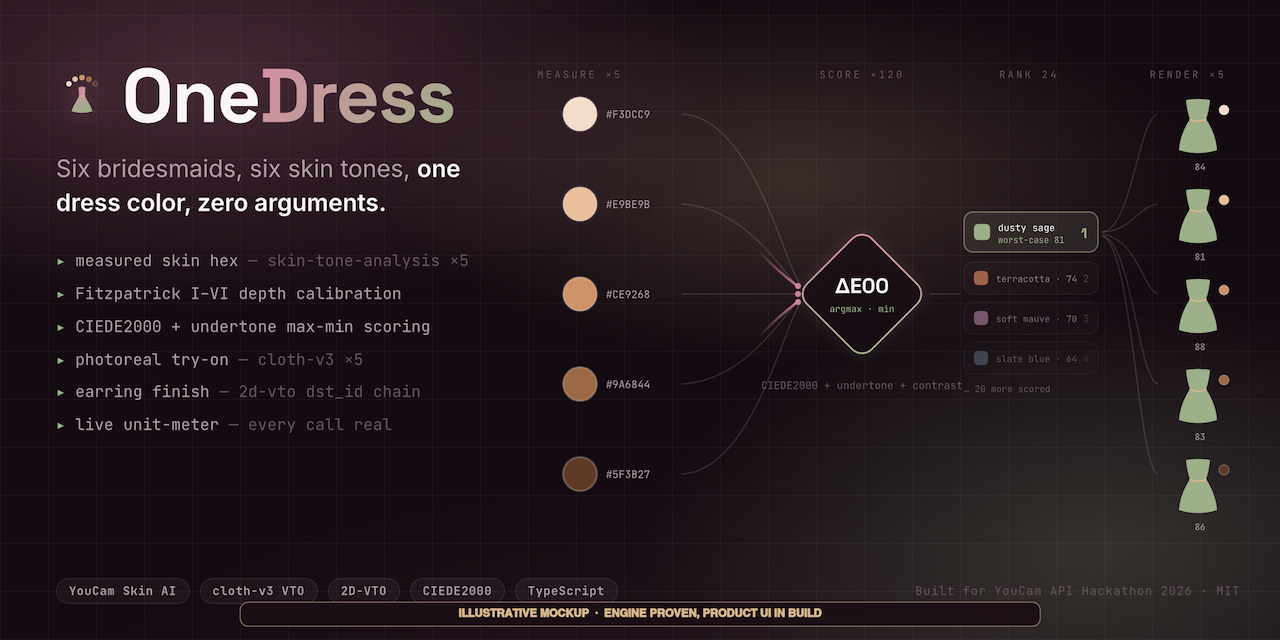
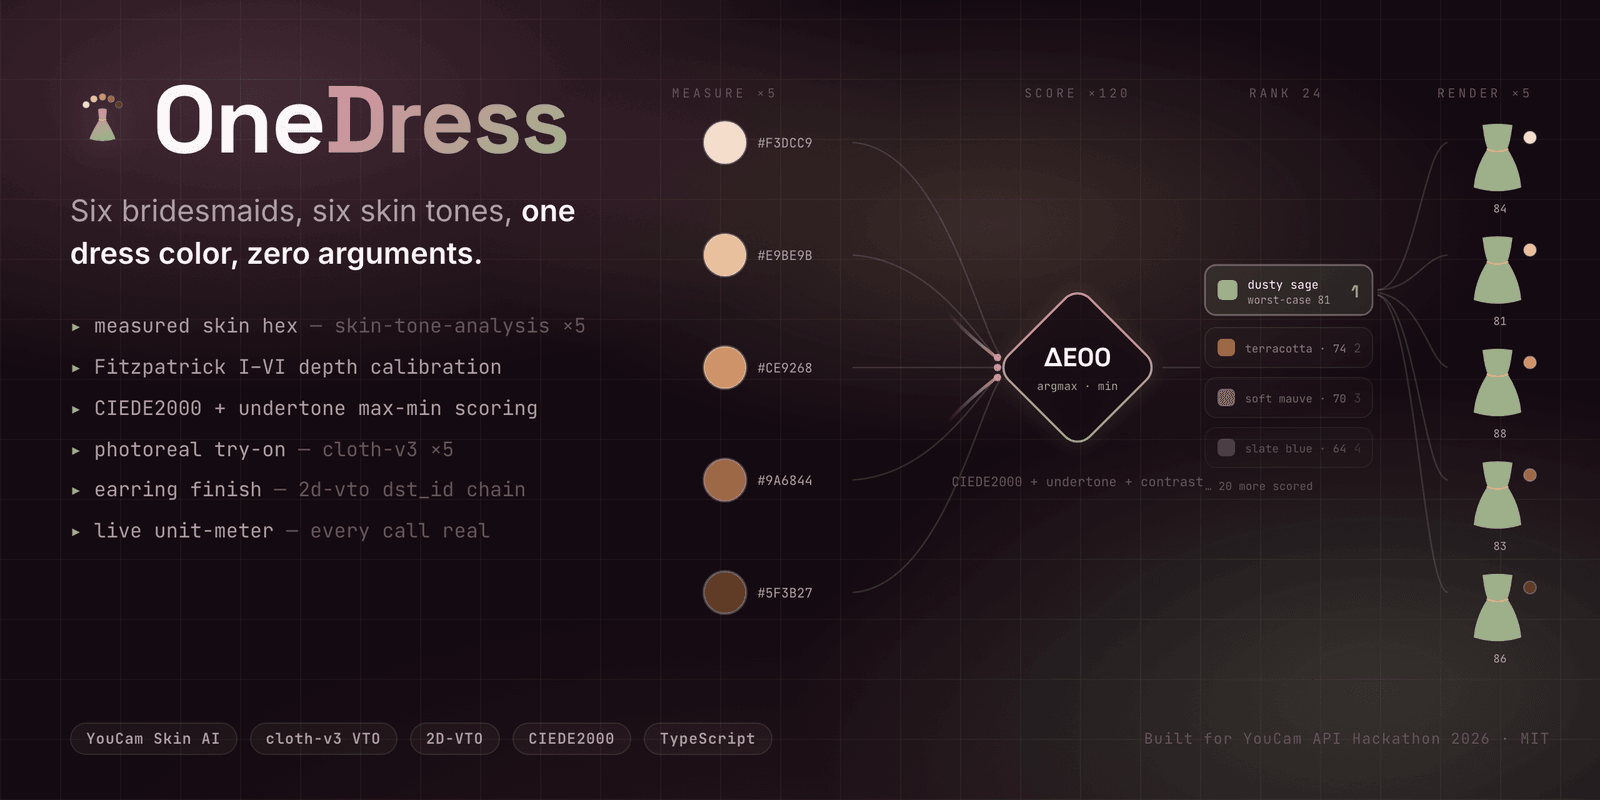
perf(landing): serve the hero at display size, as WebP with a PNG fallback
/readme-hero.png shipped the 2560x1280 master: 449KB, more than every other
byte on the page combined, and the only asset over the 300KB budget. The figure
is never wider than the 1120px wrap minus its gutters, so the master was being
downscaled by the browser on every visit for nothing.

It is now a <picture> with two widths — 1600 for a retina desktop, 800 for a
retina phone — in WebP with PNG behind it. 449KB becomes 47KB on a browser that
takes WebP and 196KB on one that does not. The <img> keeps /readme-hero.png as
its src so the e2e assertion and any existing link still resolve, keeps explicit
width/height so the box is reserved before the bytes land, and is lazy: it sits
well below the fold on every viewport.

The 2560px master is unchanged in the asset pipeline; only the copy on the wire
is smaller.

diff --git a/public/landing.html b/public/landing.html
@@ -325,6 +325,7 @@ header.site-nav {
   box-shadow: inset 0 1px 0 rgba(255,255,255,0.09);
   pointer-events: none;
 }
+.hero-figure picture { display: block; }
 .hero-figure img { width: 100%; height: auto; }
 .hero-figure figcaption {
   position: absolute; left: 0; right: 0; bottom: 0;
@@ -908,8 +909,22 @@ footer {
     <p class="hero-note rv rv-d3">The app opens on a cached demo party — six measured bridesmaids, zero API units spent, no key required. Engine proven live against 5 YouCam (Perfect Corp) endpoints.</p>
 
     <figure class="hero-figure rv">
-      <img src="/readme-hero.png" width="2560" height="1280"
-        alt="OneDress hero illustration: six bridesmaid silhouettes spanning six skin tones, all wearing the same dusty-sage dress, with measured skin-hex chips and Fitzpatrick numerals beside each.">
+      <!-- The figure is never wider than the 1120px wrap minus its 24px gutters,
+           so 1600px covers a retina desktop and 800px covers a retina phone. The
+           2560px master lives in the asset pipeline, not on the wire: it cost
+           449KB here, more than every other byte on this page combined. WebP
+           first, PNG for anything that cannot take it; both carry the same
+           intrinsic ratio so the box is reserved before either arrives. -->
+      <picture>
+        <source type="image/webp"
+          srcset="/readme-hero-800.webp 800w, /readme-hero.webp 1600w"
+          sizes="(min-width: 1120px) 1072px, 100vw">
+        <img src="/readme-hero.png"
+          srcset="/readme-hero-800.png 800w, /readme-hero.png 1600w"
+          sizes="(min-width: 1120px) 1072px, 100vw"
+          width="1600" height="800" loading="lazy" decoding="async"
+          alt="OneDress hero illustration: six bridesmaid silhouettes spanning six skin tones, all wearing the same dusty-sage dress, with measured skin-hex chips and Fitzpatrick numerals beside each.">
+      </picture>
       <figcaption>The thesis, drawn: one garment, six measured complexions, zero guesswork.</figcaption>
     </figure>
 
